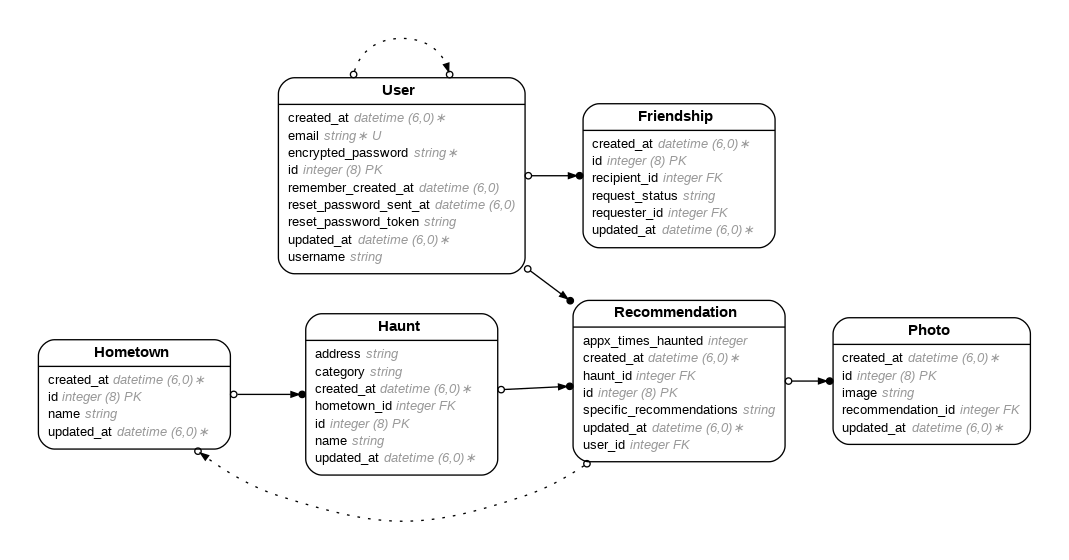
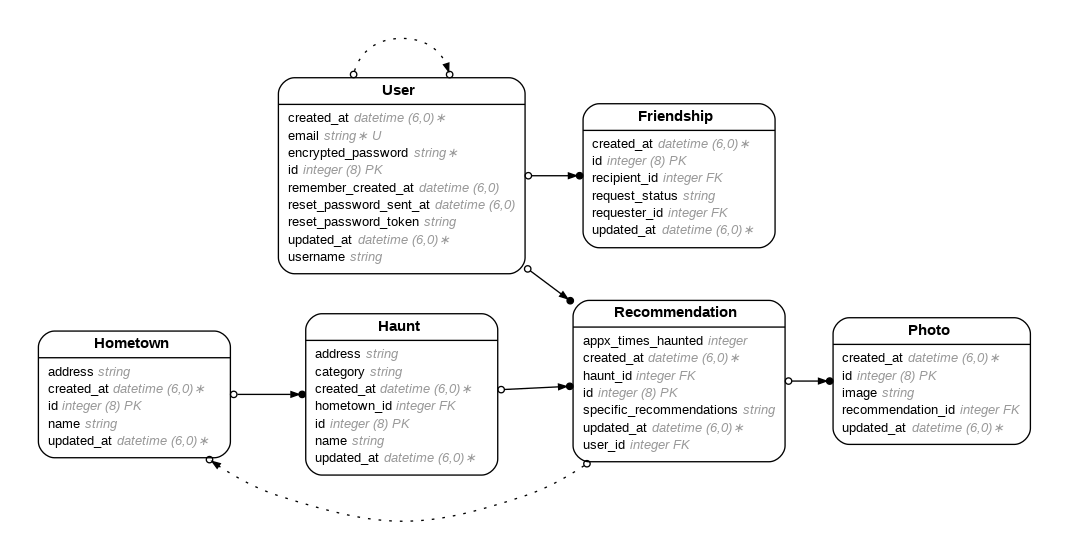
added hometown + homepage support

Changed region(s): [[0.0309, 0.5768, 0.2161, 0.85]]

diff --git a/db/schema.rb b/db/schema.rb
@@ -10,7 +10,7 @@
 #
 # It's strongly recommended that you check this file into your version control system.
 
-ActiveRecord::Schema[8.0].define(version: 2026_03_12_151939) do
+ActiveRecord::Schema[8.0].define(version: 2026_03_12_165222) do
   # These are extensions that must be enabled in order to support this database
   enable_extension "pg_catalog.plpgsql"
 
@@ -35,6 +35,7 @@ ActiveRecord::Schema[8.0].define(version: 2026_03_12_151939) do
     t.string "name"
     t.datetime "created_at", null: false
     t.datetime "updated_at", null: false
+    t.string "address"
   end
 
   create_table "photos", force: :cascade do |t|

diff --git a/config/routes.rb b/config/routes.rb
@@ -96,5 +96,5 @@ Rails.application.routes.draw do
 
   devise_for :users
   # This is a blank app! Pick your first screen, build out the RCAV, and go from there. E.g.:
-  # get("/your_first_screen", { :controller => "pages", :action => "first" })
+  get("/", { :controller => "hometowns", :action => "index" })
 end

diff --git a/app/controllers/hometowns_controller.rb b/app/controllers/hometowns_controller.rb
@@ -14,6 +14,8 @@ class HometownsController < ApplicationController
 
     @the_hometown = matching_hometowns.at(0)
 
+    @haunts_by_category = Haunt.where({ :hometown_id => the_id }).group_by(&:category)
+    
     render({ :template => "hometown_templates/show" })
   end
 

diff --git a/app/models/hometown.rb b/app/models/hometown.rb
@@ -3,6 +3,7 @@
 # Table name: hometowns
 #
 #  id         :bigint           not null, primary key
+#  address    :string
 #  name       :string
 #  created_at :datetime         not null
 #  updated_at :datetime         not null

diff --git a/db/migrate/20260312165222_add_address_to_hometowns.rb b/db/migrate/20260312165222_add_address_to_hometowns.rb
@@ -1,0 +1,5 @@
+class AddAddressToHometowns < ActiveRecord::Migration[8.0]
+  def change
+    add_column :hometowns, :address, :string
+  end
+end

diff --git a/config/environment.rb b/config/environment.rb
@@ -3,3 +3,4 @@ require_relative "application"
 
 # Initialize the Rails application.
 Rails.application.initialize!
+
